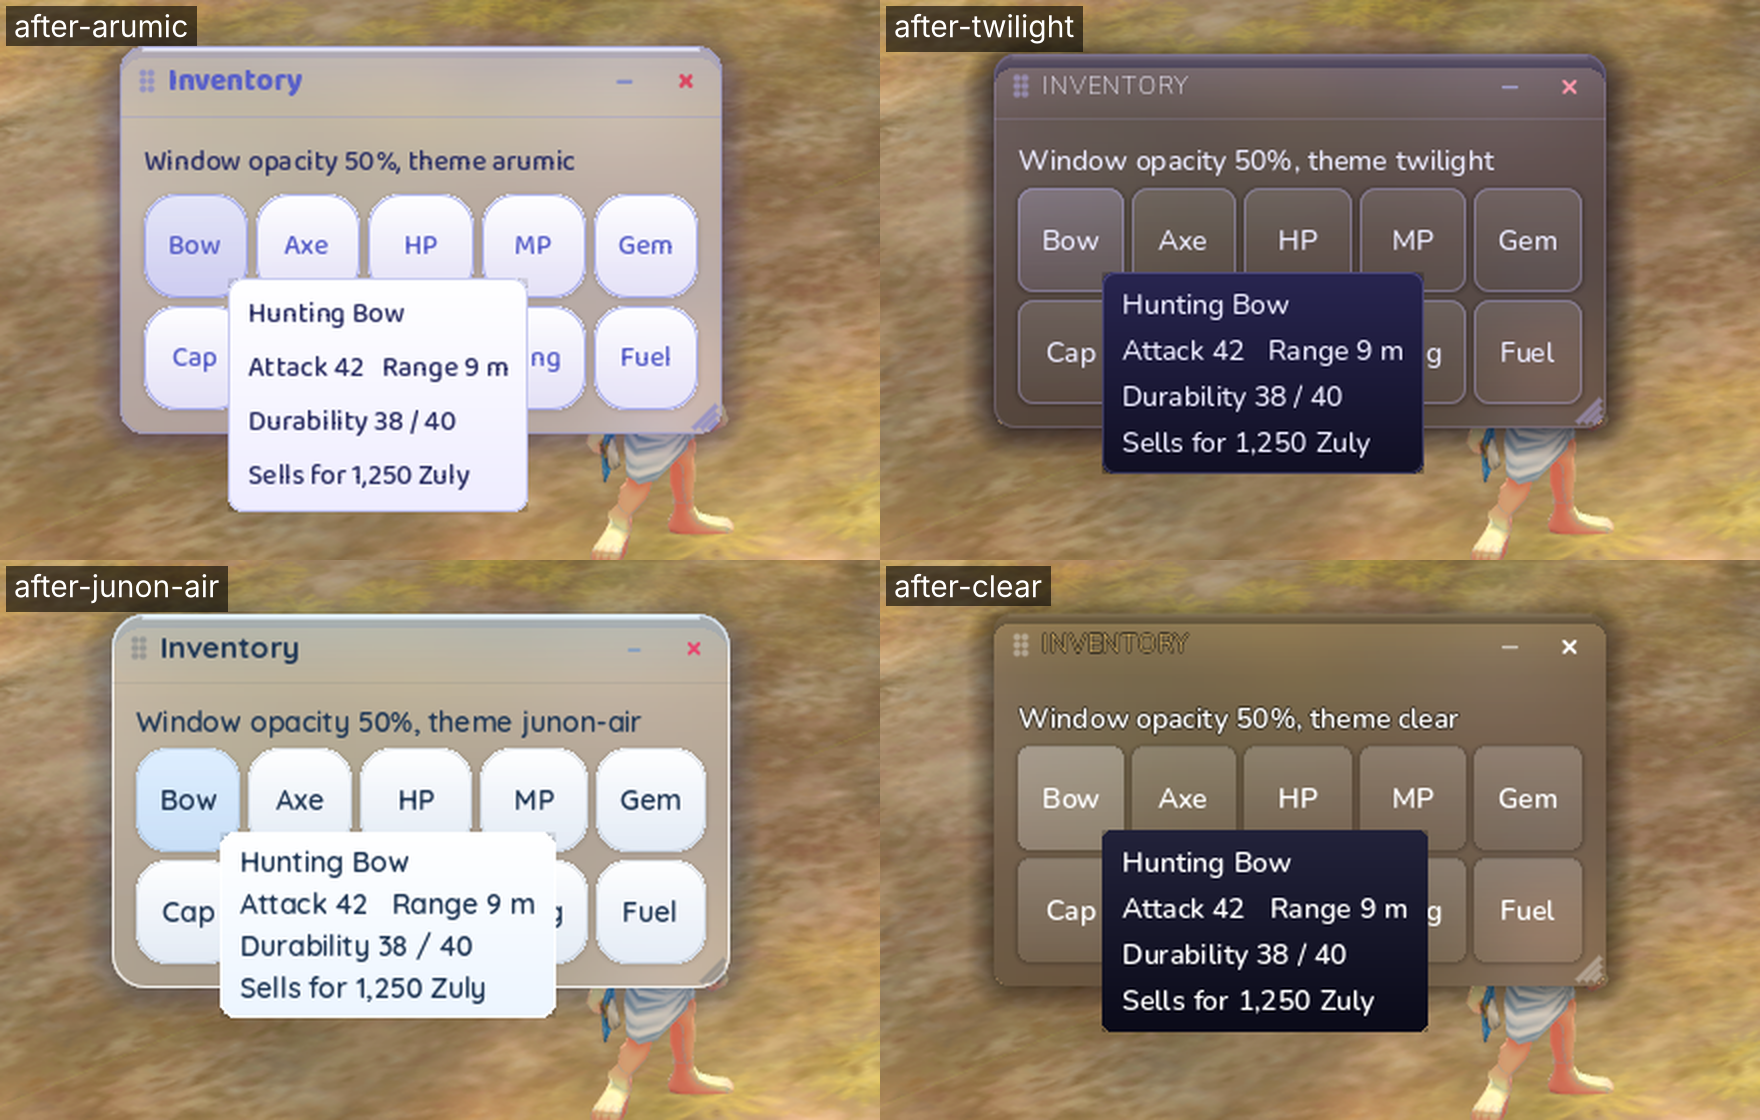
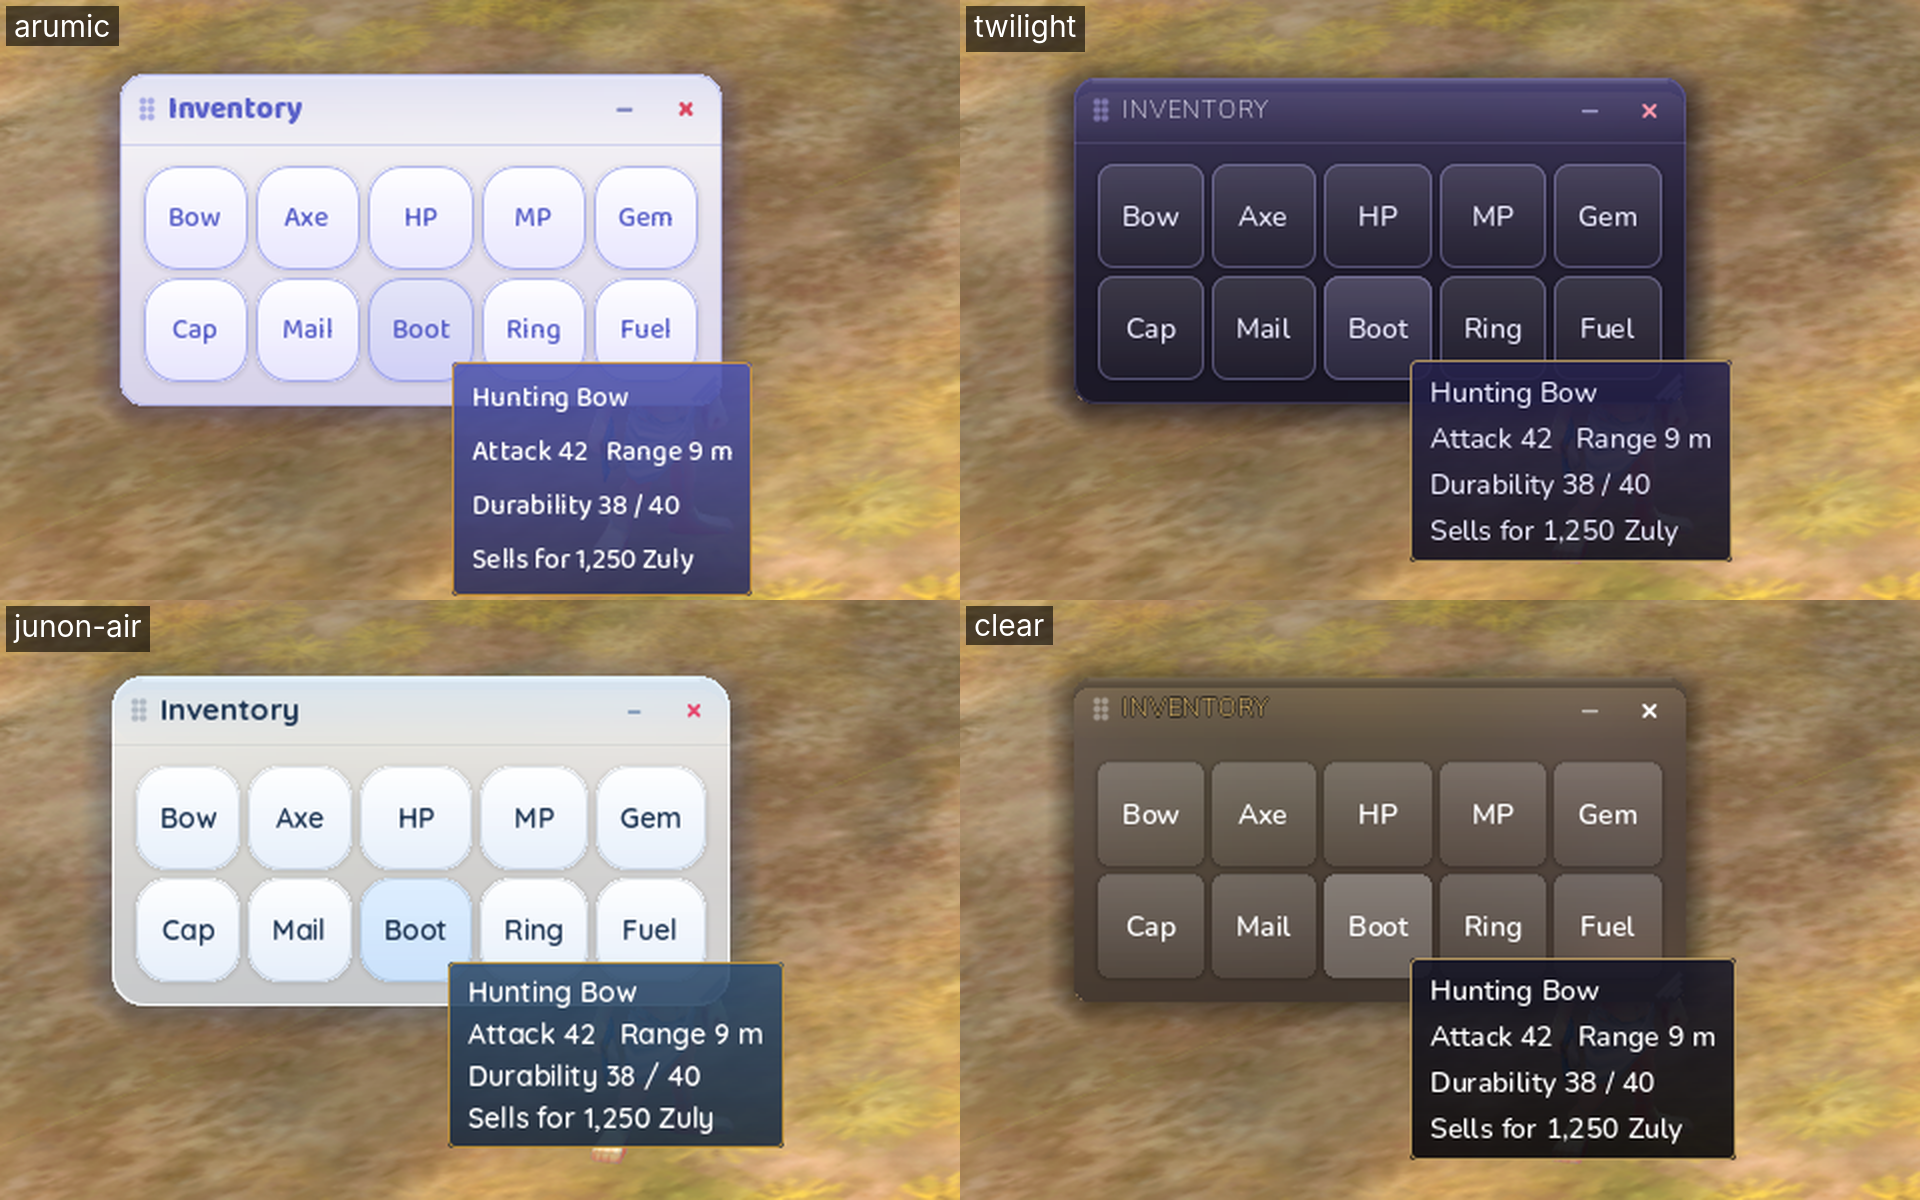
Tooltips: a deeper, see-through shade of each theme
Ronnel wants tooltips that stand apart from windows and HUD panels, in the
theme's own colours and a little see-through (like Path of Exile's), not
solid. Each built-in theme now draws tooltips and menus in a deeper shade
of its colours with a gold border, square-ish corners (tooltip.radius) and
88% opacity (tooltip.opacity, default 0.88).

Claude-Session: https://claude.ai/code/session_01QVu9zK1YLbfhcuJZuSoqmG

diff --git a/wiki/rules/controls.md b/wiki/rules/controls.md
@@ -152,8 +152,9 @@ Esc or clicking outside the chat box stops typing.
   - **Interface**: the theme (four built-in themes, or your own theme files in the
     `themes` folder next to the game), interface size (75% to 150%), window opacity (40%
     to 100%), blur behind windows, lock windows in place, and reset layout. Window
-    opacity does not fade tooltips and menus: they are solid on every theme (a theme
-    file can change that with `opacity` under `[tooltip]`).
+    opacity does not change tooltips and menus: on every theme they are 88% opaque, in a
+    deeper shade of the theme's colours with a gold border, so they stand apart from
+    windows (a theme file can change this under `[tooltip]`).
   - **World labels**: your own name tag, chat bubbles, damage numbers, and whether item
     labels on the ground show always or only while Alt is held. Labels show for items
     within 30 m.
